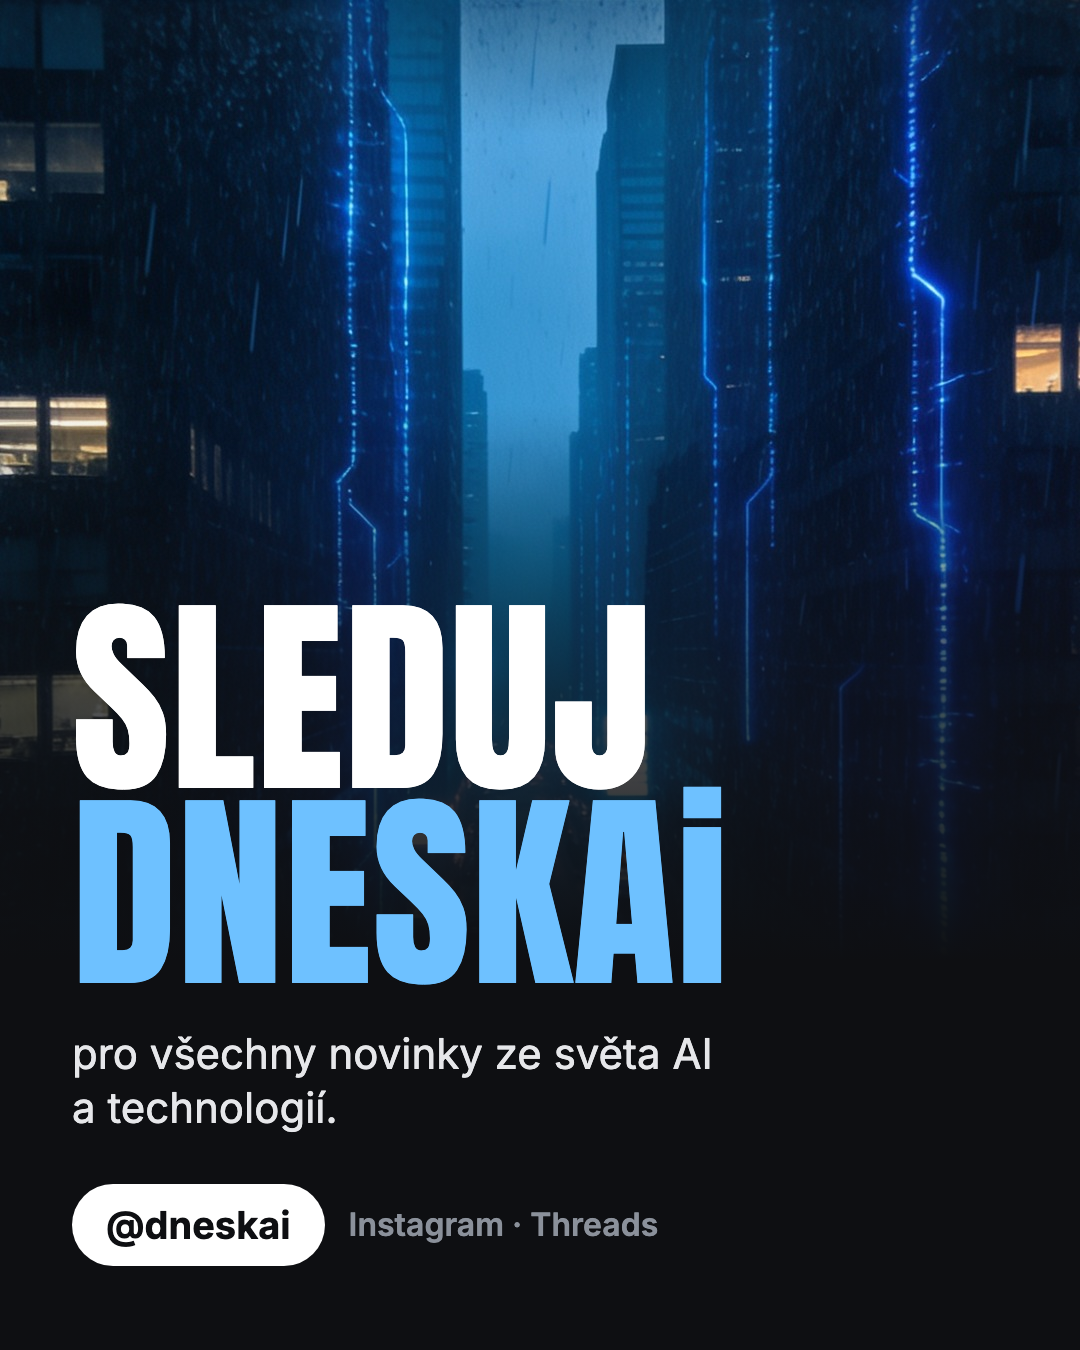
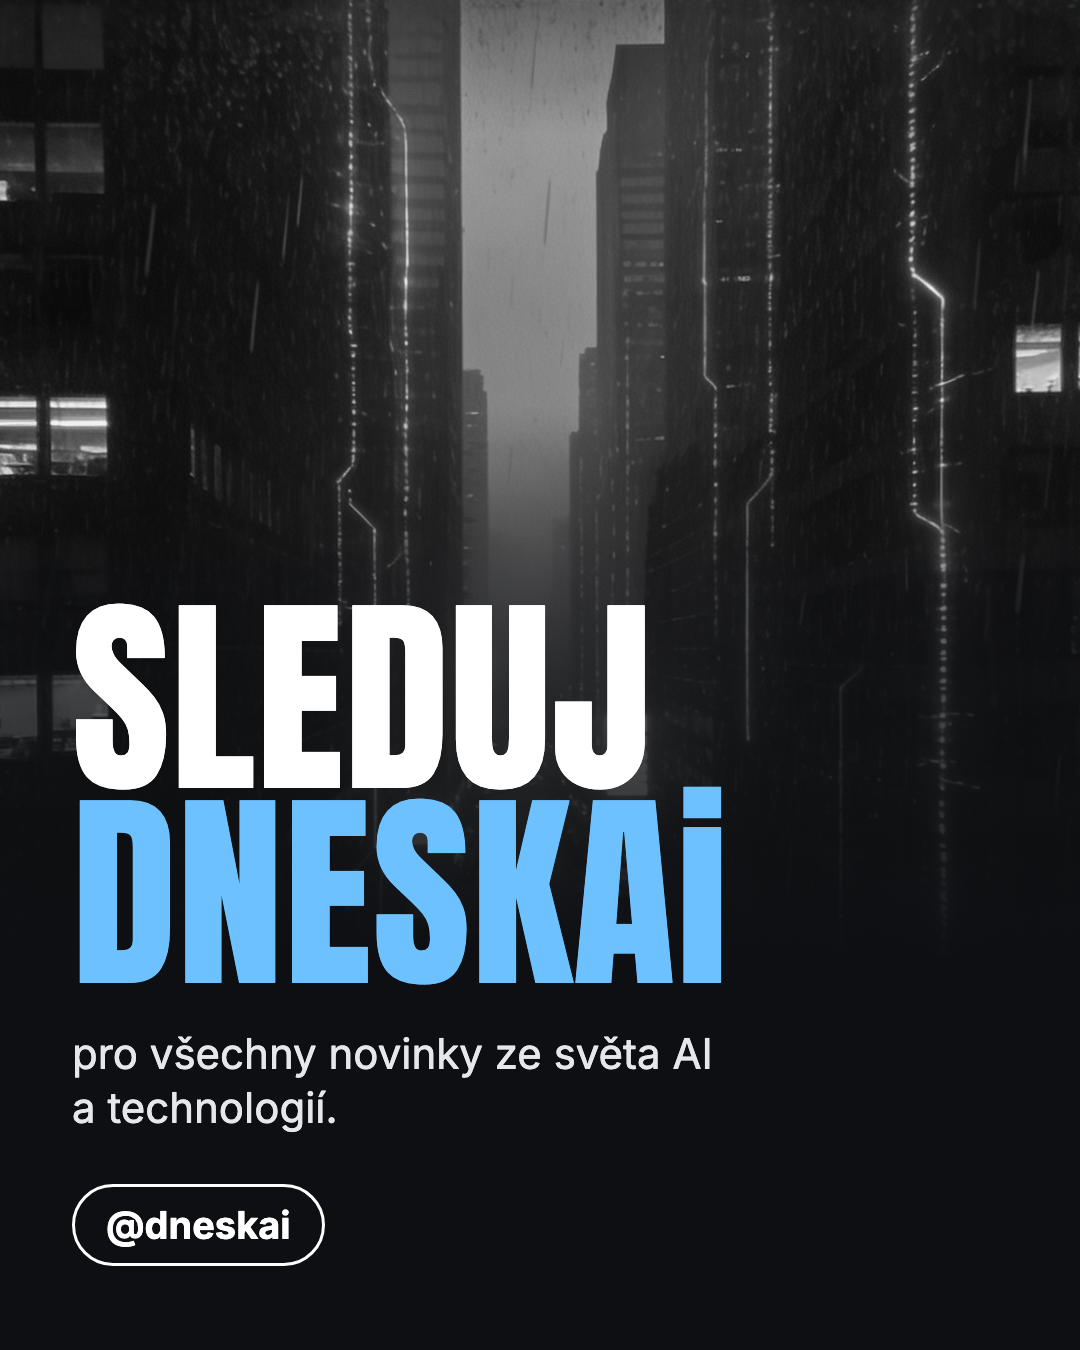
Set the DNESKAi closing card in black and white with an outlined handle
The owner's changes of 8 November 2026: the city in black and white, no
"Instagram · Threads" line, and @dneskai in white inside a white
outlined pill with no fill. The card's hash is pinned again.

diff --git a/templates/carousel-studio/brand-kits/caught-up/closing-card-source/card.html b/templates/carousel-studio/brand-kits/caught-up/closing-card-source/card.html
@@ -4,7 +4,7 @@
 @font-face{font-family:Inter;font-weight:600;src:url(../../../../../templates/carousel-studio/fonts/inter/inter-600.ttf)}
 @font-face{font-family:Inter;font-weight:700;src:url(../../../../../templates/carousel-studio/fonts/inter/inter-700.ttf)}
 html,body{margin:0;width:1080px;height:1350px;background:#0E0F12;overflow:hidden}
-.photo{position:absolute;left:0;top:0;width:1080px;height:960px;background:url(photo.jpg) center top/cover}
+.photo{position:absolute;left:0;top:0;width:1080px;height:960px;background:url(photo.jpg) center top/cover;filter:grayscale(1)}
 .fade{position:absolute;left:0;top:0;width:1080px;height:962px;background:linear-gradient(180deg,rgba(14,15,18,.35) 0%,rgba(14,15,18,0) 14%,rgba(14,15,18,0) 42%,rgba(14,15,18,.7) 72%,#0E0F12 100%)}
 .logo{position:absolute;left:72px;top:64px;height:40px}
 .block{position:absolute;left:72px;right:72px;bottom:84px}
@@ -12,13 +12,12 @@ html,body{margin:0;width:1080px;height:1350px;background:#0E0F12;overflow:hidden
 .h .b{color:#6EC1FF;text-transform:none}
 .p{margin-top:36px;font:400 42px/1.3 Inter;color:#E6E7EA;max-width:880px}
 .row{margin-top:48px;display:flex;align-items:center;gap:24px}
-.pill{font:700 38px/1 Inter;color:#0E0F12;background:#fff;padding:22px 34px;border-radius:999px}
-.where{font:600 32px/1 Inter;color:#8B919B}
+.pill{font:700 38px/1 Inter;color:#fff;background:transparent;border:3px solid #fff;padding:19px 31px;border-radius:999px}
 </style></head><body>
 <div class="photo"></div><div class="fade"></div>
 
 <div class="block">
 <div class="h">Sleduj<br><span class="b">DNESKAi</span></div>
 <div class="p">pro všechny novinky ze světa AI a&nbsp;technologií.</div>
-<div class="row"><span class="pill">@dneskai</span><span class="where">Instagram · Threads</span></div>
+<div class="row"><span class="pill">@dneskai</span></div>
 </div></body></html>

diff --git a/src/lib/marketing/dneskai-closing.ts b/src/lib/marketing/dneskai-closing.ts
@@ -14,11 +14,11 @@ export const DNESKAI_CLOSING_SHA256 = "23afb625077955c0e00bcedec70e01084501358cd
 export const DNESKAI_CLOSING_FILE = ["templates", "carousel-studio", "brand-kits", "caught-up", "dneskai-closing.jpg"] as const;
 /**
  * The finished closing slide (owner, evening of 8 November 2026: the kit-drawn closing slide looked poor). One
- * 1080 × 1350 card, the same in every kit: the city from the Higgsfield picture without its window frame, "SLEDUJ"
- * and "DNESKAi" in tall capitals, the follow line and the handle. The render draws this file instead of laying the
+ * 1080 × 1350 card, the same in every kit: the city from the Higgsfield picture without its window frame, in black and white, "SLEDUJ"
+ * and "DNESKAi" in tall capitals, the follow line and the handle in a white outlined pill. The render draws this file instead of laying the
  * slide out in the deck's kit; its source is `closing-card-source/card.html` next to it.
  */
[2 lines of base64/hex data omitted]
 export const DNESKAI_CLOSING_CARD_FILE = ["templates", "carousel-studio", "brand-kits", "caught-up", "dneskai-closing-card.png"] as const;
 export const DNESKAI_CLOSING_CARD_TEMPLATE = { id: "dneskai-closing-card", version: "1.0.0" } as const;
 export const DNESKAI_CLOSING_HEADLINE = "Sleduj [[DNESKAi]]";

diff --git a/templates/carousel-studio/brand-kits/caught-up/dneskai-closing.md b/templates/carousel-studio/brand-kits/caught-up/dneskai-closing.md
@@ -17,11 +17,11 @@ The owner found the kit-drawn closing slide poor ("je dost nešťastný"). Since
 finished 1080 × 1350 card instead, the same in Spotlight and Plakát:
 
 - Picture: the same Higgsfield original, cropped inside the window frame (left 208, top 380, 1320 × 1173 of the
-  1728 × 2304 PNG) so only the city shows, fading into ink.
+  1728 × 2304 PNG) so only the city shows, in black and white (owner, 8 November 2026), fading into ink.
 - Words: "SLEDUJ" in white and "DNESKAi" in the brand's icy blue (#6EC1FF), Anton at 212 px; "pro všechny novinky ze světa AI
-  a technologií." in Inter; a white "@dneskai" pill with "Instagram · Threads".
+  a technologií." in Inter; "@dneskai" in white inside a white outlined pill with no fill (owner, 8 November 2026: no "Instagram · Threads").
 - Source: `closing-card-source/card.html` with `photo.jpg`, screenshot at 1080 × 1350 in Playwright Chromium.
   A new screenshot is not byte-identical, so a redraw changes the pinned hash.
[2 lines of base64/hex data omitted]
   `src/lib/marketing/dneskai-closing.ts` (`DNESKAI_CLOSING_CARD_SHA256`). The deck still names the closing slide by
   the picture's hash above; the render sees that hash and draws the card.
